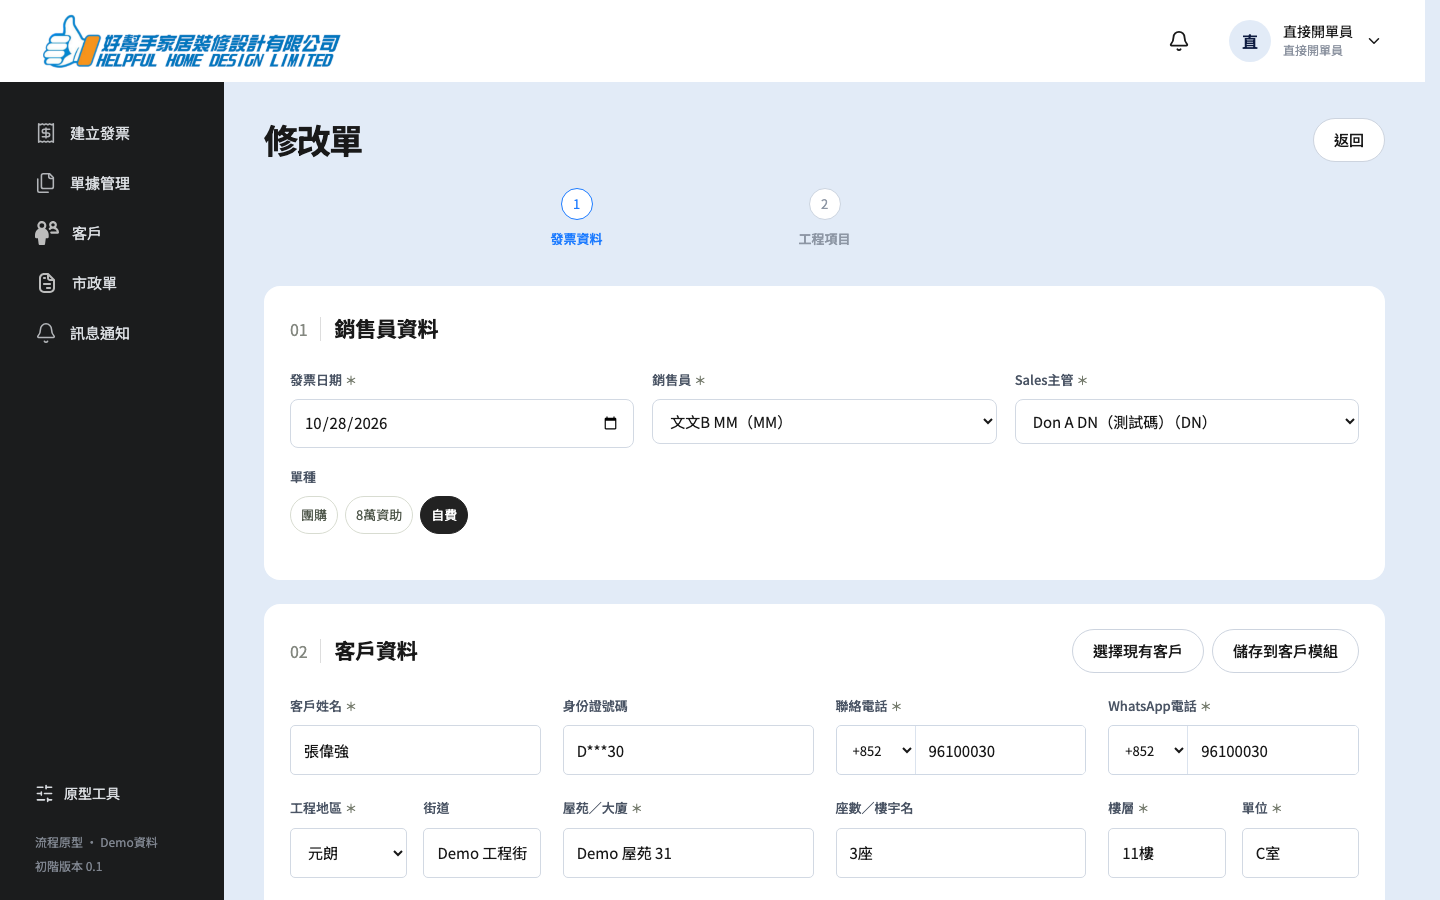
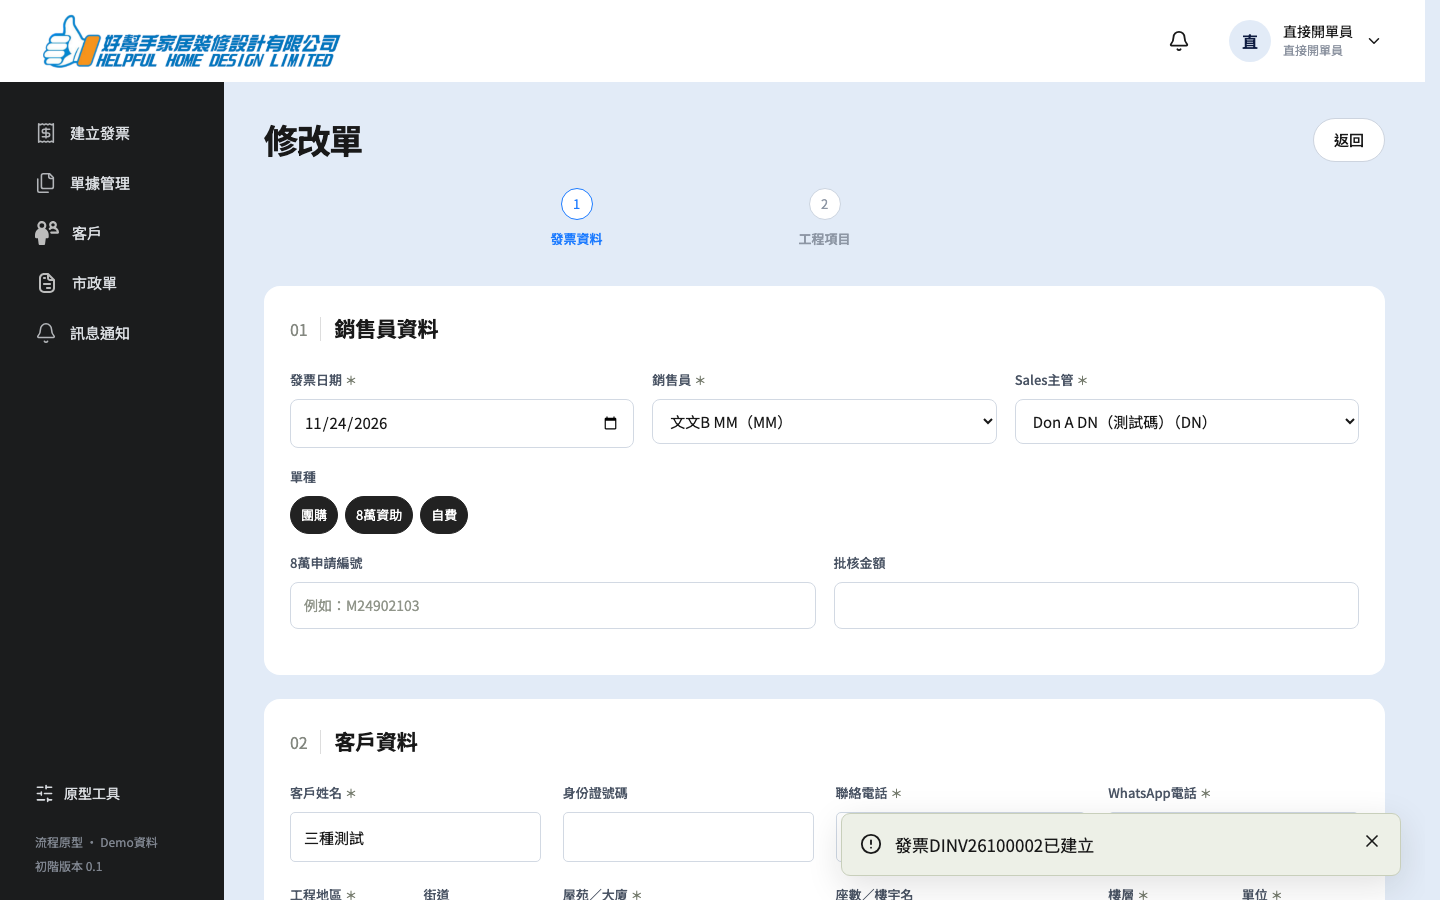
feat(invoices): row navigation and grant fields

diff --git a/src/pages/Quotes.tsx b/src/pages/Quotes.tsx
@@ -782,6 +782,14 @@ export function QuoteEditor() {
         ? [existingInvoice.category]
         : ["self-pay"],
   );
+  const [grantApplicationNumber, setGrantApplicationNumber] = useState(
+    existing?.grantApplicationNumber ?? "",
+  );
+  const [grantApprovedAmount, setGrantApprovedAmount] = useState(
+    existing?.grantApprovedAmount
+      ? String(existing.grantApprovedAmount)
+      : "",
+  );
   const [exitConfirm, setExitConfirm] = useState(false);
   const [picker, setPicker] = useState(false);
   const [customers, setCustomers] = useState(false);
@@ -936,6 +944,8 @@ export function QuoteEditor() {
           salesId,
           supervisorId,
           categories: directCategories,
+          grantApplicationNumber,
+          grantApprovedAmount: Number(grantApprovedAmount) || undefined,
         }),
       `發票${existingInvoice.number}已更新。`,
     );
@@ -953,6 +963,8 @@ export function QuoteEditor() {
           salesId,
           supervisorId,
           date: invoiceDate,
+          grantApplicationNumber,
+          grantApprovedAmount: Number(grantApprovedAmount) || undefined,
         }),
       undefined,
     );
@@ -1343,6 +1355,32 @@ export function QuoteEditor() {
                   </div>
                 </Field>
               )}
+              {editingInvoice && directCategories.includes("grant-80k") && (
+                <div className="form-grid two municipal-grant-fields">
+                  <Field label="8萬申請編號">
+                    <input
+                      aria-label="8萬申請編號"
+                      value={grantApplicationNumber}
+                      onChange={(event) =>
+                        setGrantApplicationNumber(event.target.value)
+                      }
+                      placeholder="例如：M24902103"
+                    />
+                  </Field>
+                  <Field label="批核金額">
+                    <input
+                      aria-label="批核金額"
+                      type="number"
+                      min="0"
+                      step="0.01"
+                      value={grantApprovedAmount}
+                      onChange={(event) =>
+                        setGrantApprovedAmount(event.target.value)
+                      }
+                    />
+                  </Field>
+                </div>
+              )}
             </Section>
           )}
           {(!wizard || wizardStep === 1) && (
@@ -1350,19 +1388,23 @@ export function QuoteEditor() {
             number={directInvoice ? "02" : "01"}
             title="客戶資料"
             action={
-              <div className="section-actions">
-                <Button onClick={() => setCustomers(true)}>
-                  選擇現有客戶
-                </Button>
-                {directInvoice && (
-                  <Button
-                    disabled={!customer.name.trim() || !customer.phone.trim()}
-                    onClick={saveCustomerToModule}
-                  >
-                    儲存到客戶模組
+              editingInvoice ? undefined : (
+                <div className="section-actions">
+                  <Button onClick={() => setCustomers(true)}>
+                    選擇現有客戶
                   </Button>
-                )}
-              </div>
+                  {directInvoice && (
+                    <Button
+                      disabled={
+                        !customer.name.trim() || !customer.phone.trim()
+                      }
+                      onClick={saveCustomerToModule}
+                    >
+                      儲存到客戶模組
+                    </Button>
+                  )}
+                </div>
+              )
             }
           >
             <CustomerForm
@@ -1802,6 +1844,32 @@ export function QuoteEditor() {
                       ))}
                     </div>
                   </Field>
+                  {directCategories.includes("grant-80k") && (
+                    <div className="form-grid two municipal-grant-fields">
+                      <Field label="8萬申請編號">
+                        <input
+                          aria-label="8萬申請編號"
+                          value={grantApplicationNumber}
+                          onChange={(event) =>
+                            setGrantApplicationNumber(event.target.value)
+                          }
+                          placeholder="例如：M24902103"
+                        />
+                      </Field>
+                      <Field label="批核金額">
+                        <input
+                          aria-label="批核金額"
+                          type="number"
+                          min="0"
+                          step="0.01"
+                          value={grantApprovedAmount}
+                          onChange={(event) =>
+                            setGrantApprovedAmount(event.target.value)
+                          }
+                        />
+                      </Field>
+                    </div>
+                  )}
                   <div className="handoff-prepared">
                     <span>正式發票號</span>
                     <strong>建立後產生</strong>

diff --git a/src/domain/engine.ts b/src/domain/engine.ts
@@ -5577,6 +5577,8 @@ export class Engine {
       salesId?: string;
       supervisorId?: string;
       date?: string;
+      grantApplicationNumber?: string;
+      grantApprovedAmount?: number;
     },
   ): Invoice {
     const actor = this.actor(actorInput);
@@ -5684,6 +5686,14 @@ export class Engine {
         archived: false,
         officeCategory: effectiveCategory,
         orderCategories: selectedCategories,
+        grantApplicationNumber: selectedCategories.includes("grant-80k")
+          ? input.grantApplicationNumber?.trim() || undefined
+          : undefined,
+        grantApprovedAmount:
+          selectedCategories.includes("grant-80k") &&
+          Number(input.grantApprovedAmount) > 0
+            ? moneyValue(input.grantApprovedAmount!)
+            : undefined,
         directInvoice: true,
         invoiceId: invoice.id,
       };
@@ -5711,6 +5721,8 @@ export class Engine {
       salesId?: string;
       supervisorId?: string;
       categories?: InvoiceCategory[];
+      grantApplicationNumber?: string;
+      grantApprovedAmount?: number;
     },
   ): Invoice {
     const actor = this.actor(actorInput);
@@ -5803,6 +5815,14 @@ export class Engine {
       quote.team = sales?.team ?? quote.team;
       quote.officeCategory = effectiveCategory;
       quote.orderCategories = selectedCategories;
+      quote.grantApplicationNumber = selectedCategories.includes("grant-80k")
+        ? input.grantApplicationNumber?.trim() || undefined
+        : undefined;
+      quote.grantApprovedAmount =
+        selectedCategories.includes("grant-80k") &&
+        Number(input.grantApprovedAmount) > 0
+          ? moneyValue(input.grantApprovedAmount!)
+          : undefined;
       quote.orderRevision = true;
       quote.updatedAt = NOW;
       invoice.customer = deepCopy(customer);

diff --git a/src/pages/Office.tsx b/src/pages/Office.tsx
@@ -914,7 +914,18 @@ export function Invoices() {
                   const order = orderByInvoice.get(invoice.id);
                   const engineering = engineeringLabel(invoice);
                   return (
-                    <tr key={invoice.id}>
+                    <tr
+                      key={invoice.id}
+                      className="invoice-clickable-row"
+                      tabIndex={0}
+                      onClick={() => nav("/invoices/" + invoice.id)}
+                      onKeyDown={(event) => {
+                        if (event.key === "Enter" || event.key === " ") {
+                          event.preventDefault();
+                          nav("/invoices/" + invoice.id);
+                        }
+                      }}
+                    >
                       <td>
                         <div
                           className={`invoice-number-cell ${
@@ -995,11 +1006,12 @@ export function Invoices() {
                           variant="ghost"
                           aria-label={`修改${invoice.number}`}
                           title="修改單"
-                          onClick={() =>
+                          onClick={(event) => {
+                            event.stopPropagation();
                             nav(
                               `/quotes/${invoice.quoteId}/edit?invoice=1`,
-                            )
-                          }
+                            );
+                          }}
                         >
                           <PenLine size={19} />
                         </Button>

diff --git a/src/styles.css b/src/styles.css
@@ -12409,3 +12409,50 @@ textarea::placeholder {
 .invoice-list-table td:nth-child(7) { width: 17%; }
 .invoice-list-table th:nth-child(8),
 .invoice-list-table td:nth-child(8) { width: 5%; }
+
+.invoice-clickable-row {
+  cursor: pointer;
+}
+.invoice-clickable-row:hover td {
+  background: #f7f9fc;
+}
+.invoice-clickable-row:focus-visible {
+  outline: 2px solid #88baff;
+  outline-offset: -2px;
+}
+.invoice-list-table .category-chips {
+  display: inline-flex;
+  flex-wrap: nowrap;
+  gap: 3px;
+  width: max-content;
+  max-width: none;
+  overflow: visible;
+  margin: 0;
+}
+.invoice-list-table .category-chip {
+  min-height: 22px;
+  padding: 0 7px;
+  border-radius: 999px;
+  font-size: 10px;
+  line-height: 22px;
+}
+.invoice-list-table .category-chip + .category-chip {
+  border-left: 0;
+}
+
+.invoice-list-table th:nth-child(1),
+.invoice-list-table td:nth-child(1) { width: 17%; }
+.invoice-list-table th:nth-child(2),
+.invoice-list-table td:nth-child(2) { width: 10%; }
+.invoice-list-table th:nth-child(3),
+.invoice-list-table td:nth-child(3) { width: 13%; }
+.invoice-list-table th:nth-child(4),
+.invoice-list-table td:nth-child(4) { width: 10%; }
+.invoice-list-table th:nth-child(5),
+.invoice-list-table td:nth-child(5) { width: 17%; }
+.invoice-list-table th:nth-child(6),
+.invoice-list-table td:nth-child(6) { width: 11%; }
+.invoice-list-table th:nth-child(7),
+.invoice-list-table td:nth-child(7) { width: 17%; }
+.invoice-list-table th:nth-child(8),
+.invoice-list-table td:nth-child(8) { width: 5%; }

diff --git a/tests/e2e/invoice-amend.spec.ts b/tests/e2e/invoice-amend.spec.ts
@@ -11,6 +11,10 @@ test("單據管理每張Invoice有修改單入口", async ({ page }) => {
   await page.goto("/invoices");
   const row = page.locator(".invoice-list-table tbody tr").first();
   const invoiceNumber = (await row.locator("strong").first().innerText()).trim();
+  await row.locator("td").nth(2).click();
+  await expect(page).toHaveURL(/\/invoices\/[^/]+$/);
+  await page.goBack();
+  await page.waitForTimeout(200);
   await expect(
     row.getByRole("button", { name: `修改${invoiceNumber}`, exact: true }),
   ).toBeVisible();
